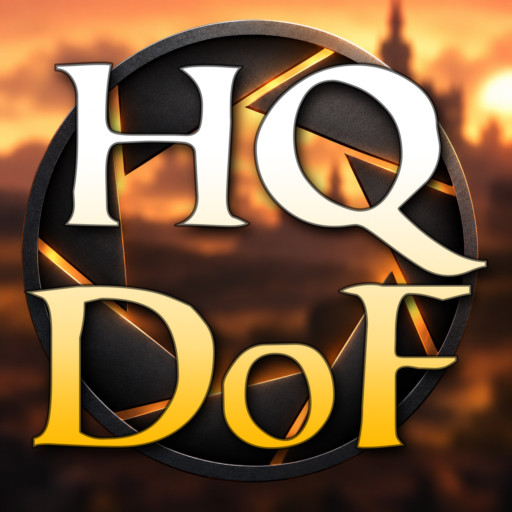
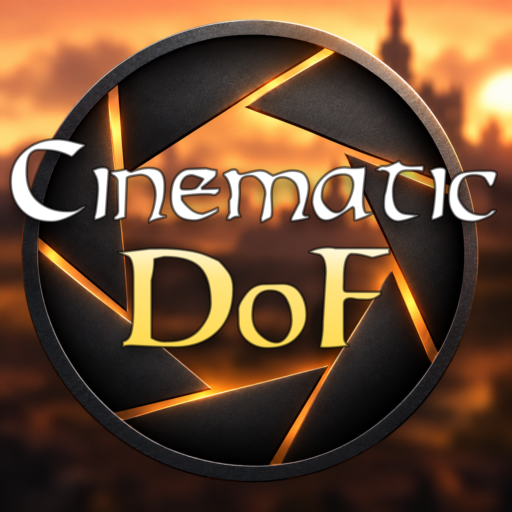
feat: rename to cinematic dof

diff --git a/src/mod.cpp b/src/mod.cpp
@@ -1,11 +1,4 @@
-// High quality depth of field mod.
-//
-// Lets the game's drawDepth2 run (with the built-in depth of field set to Off, it updates the
-// smoothed focus state in g_env_light and returns), then in a post-hook recomputes the focus
-// parameters, snapshots color + depth, and records a gather pass (res/dof_hq.wgsl).
-//
-// Full resolution: the gather is drawn straight onto the scene with premultiplied blending.
-// Half resolution: the gather is drawn into an offscreen target, then upsampled onto the scene.
+// Cinematic depth of field mod
 
 #include "global.h"
 
@@ -200,7 +193,7 @@ namespace
     PipelineSlot g_slotOffscreen = {nullptr, GFX_RENDER_TARGET_LAYOUT_INIT};
     PipelineSlot g_slotComposite = {nullptr, GFX_RENDER_TARGET_LAYOUT_INIT};
 
-    // Mirror of the WGSL struct P (keep in sync with res/dof_hq.wgsl).
+    // Mirror of the WGSL struct P (keep in sync with res/depth_of_field.wgsl).
     struct DofParams
     {
         float maxRadiusFrac;
@@ -295,7 +288,7 @@ namespace
         wgsl.code = {static_cast<const char *>(g_shaderSource.data), g_shaderSource.size};
         WGPUShaderModuleDescriptor moduleDesc = WGPU_SHADER_MODULE_DESCRIPTOR_INIT;
         moduleDesc.nextInChain = &wgsl.chain;
-        moduleDesc.label = {"dof_hq", WGPU_STRLEN};
+        moduleDesc.label = {"depth_of_field", WGPU_STRLEN};
         g_module = wgpuDeviceCreateShaderModule(device, &moduleDesc);
         if (g_module == nullptr)
             return false;
@@ -325,7 +318,7 @@ namespace
         entries[3].sampler.type = WGPUSamplerBindingType_Filtering;
 
         WGPUBindGroupLayoutDescriptor bglDesc = WGPU_BIND_GROUP_LAYOUT_DESCRIPTOR_INIT;
-        bglDesc.label = {"dof_hq bgl", WGPU_STRLEN};
+        bglDesc.label = {"depth_of_field bgl", WGPU_STRLEN};
         bglDesc.entryCount = 4;
         bglDesc.entries = entries;
         g_bgl = wgpuDeviceCreateBindGroupLayout(device, &bglDesc);
@@ -344,7 +337,7 @@ namespace
         compositeEntries[1].sampler.type = WGPUSamplerBindingType_Filtering;
 
         WGPUBindGroupLayoutDescriptor compositeBglDesc = WGPU_BIND_GROUP_LAYOUT_DESCRIPTOR_INIT;
-        compositeBglDesc.label = {"dof_hq composite bgl", WGPU_STRLEN};
+        compositeBglDesc.label = {"depth_of_field composite bgl", WGPU_STRLEN};
         compositeBglDesc.entryCount = 2;
         compositeBglDesc.entries = compositeEntries;
         g_compositeBgl = wgpuDeviceCreateBindGroupLayout(device, &compositeBglDesc);
@@ -352,7 +345,7 @@ namespace
             return false;
 
         WGPUPipelineLayoutDescriptor plDesc = WGPU_PIPELINE_LAYOUT_DESCRIPTOR_INIT;
-        plDesc.label = {"dof_hq pipeline layout", WGPU_STRLEN};
+        plDesc.label = {"depth_of_field pipeline layout", WGPU_STRLEN};
         plDesc.bindGroupLayoutCount = 1;
         plDesc.bindGroupLayouts = &g_bgl;
         g_pipelineLayout = wgpuDeviceCreatePipelineLayout(device, &plDesc);
@@ -360,7 +353,7 @@ namespace
             return false;
 
         WGPUPipelineLayoutDescriptor compositePlDesc = WGPU_PIPELINE_LAYOUT_DESCRIPTOR_INIT;
-        compositePlDesc.label = {"dof_hq composite pipeline layout", WGPU_STRLEN};
+        compositePlDesc.label = {"depth_of_field composite pipeline layout", WGPU_STRLEN};
         compositePlDesc.bindGroupLayoutCount = 1;
         compositePlDesc.bindGroupLayouts = &g_compositeBgl;
         g_compositePipelineLayout = wgpuDeviceCreatePipelineLayout(device, &compositePlDesc);
@@ -368,7 +361,7 @@ namespace
             return false;
 
         WGPUSamplerDescriptor samplerDesc = WGPU_SAMPLER_DESCRIPTOR_INIT;
-        samplerDesc.label = {"dof_hq sampler", WGPU_STRLEN};
+        samplerDesc.label = {"depth_of_field sampler", WGPU_STRLEN};
         samplerDesc.magFilter = WGPUFilterMode_Linear;
         samplerDesc.minFilter = WGPUFilterMode_Linear;
         g_sampler = wgpuDeviceCreateSampler(device, &samplerDesc);
@@ -408,7 +401,7 @@ namespace
         depthStencil.depthCompare = WGPUCompareFunction_Always;
 
         WGPURenderPipelineDescriptor pipelineDesc = WGPU_RENDER_PIPELINE_DESCRIPTOR_INIT;
-        pipelineDesc.label = {composite ? "dof_hq composite" : (offscreen ? "dof_hq gather (offscreen)" : "dof_hq gather"),
+        pipelineDesc.label = {composite ? "depth_of_field composite" : (offscreen ? "depth_of_field gather (offscreen)" : "depth_of_field gather"),
                               WGPU_STRLEN};
         pipelineDesc.layout = composite ? g_compositePipelineLayout : g_pipelineLayout;
         pipelineDesc.vertex.module = g_module;
@@ -810,9 +803,9 @@ extern "C"
         }
         refresh_settings();
 
-        result = svc_resource->load(mod_ctx, "dof_hq.wgsl", &g_shaderSource);
+        result = svc_resource->load(mod_ctx, "depth_of_field.wgsl", &g_shaderSource);
         if (result != MOD_OK || g_shaderSource.data == nullptr)
-            return mods::set_error(error, result, "failed to load dof_hq.wgsl");
+            return mods::set_error(error, result, "failed to load depth_of_field.wgsl");
 
         if (svc_gfx->get_device_info(mod_ctx, &g_deviceInfo) != MOD_OK)
             return fail_init(error, MOD_ERROR, "failed to query device info");
@@ -824,17 +817,17 @@ extern "C"
         free_shader_source();
 
         GfxDrawTypeDesc drawDesc = GFX_DRAW_TYPE_DESC_INIT;
-        drawDesc.label = "dof_hq gather";
+        drawDesc.label = "depth_of_field gather";
         drawDesc.draw = on_draw_gather_direct;
         if (svc_gfx->register_draw_type(mod_ctx, &drawDesc, &g_drawGatherDirect) != MOD_OK)
             return fail_init(error, MOD_ERROR, "failed to register draw type");
 
-        drawDesc.label = "dof_hq gather (offscreen)";
+        drawDesc.label = "depth_of_field gather (offscreen)";
         drawDesc.draw = on_draw_gather_offscreen;
         if (svc_gfx->register_draw_type(mod_ctx, &drawDesc, &g_drawGatherOffscreen) != MOD_OK)
             return fail_init(error, MOD_ERROR, "failed to register draw type");
 
-        drawDesc.label = "dof_hq composite";
+        drawDesc.label = "depth_of_field composite";
         drawDesc.draw = on_draw_composite;
         if (svc_gfx->register_draw_type(mod_ctx, &drawDesc, &g_drawComposite) != MOD_OK)
             return fail_init(error, MOD_ERROR, "failed to register draw type");

diff --git a/README.md b/README.md
@@ -1,10 +1,10 @@
-# HQ Depth of Field
+# Cinematic Depth of Field
 
 <p align="center">
   <img src="res/icon.png" alt="Dusklight Mod Template icon" width="220" />
 </p>
 
-Replaces the built-in depth of field for a high-quality effect, optionally blurring far-away objects slightly during normal gameplay, not just during cutscenes or cinematic moments.
+Replaces the built-in depth of field for a more cinematic look, optionally blurring far-away objects slightly during normal gameplay, not just during cutscenes or cinematic moments.
 
 **IMPORTANT: Set the built-in depth of field option to Off while this mod is enabled (Settings > Video > Post-processing > Depth of Field).**
 
@@ -12,7 +12,7 @@ Based on Jorge Jimenez's "NEXT GENERATION POST PROCESSING IN CALL OF DUTY: ADVAN
 
 `LLM Usage: AI assistance was used for the development of this mod, especially the wgsl shader.`
 
---- 
+---
 
 I used the [mod template](https://github.com/TwilitRealm/mod-template).
 
